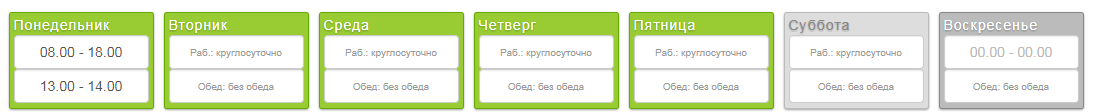
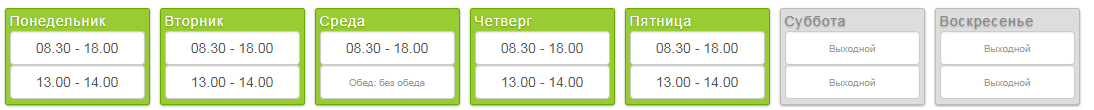
fix placeholders weekend title

diff --git a/assets/working-days.js b/assets/working-days.js
@@ -189,6 +189,23 @@ var MPWorkingDays = (function (app, $) {
             option.find('[data-autofill="1"]').attr('data-autofill', -1);
         }
 
+        // Change placeholder
+        if (status !== option.hasClass('active')) {
+            let placeholder = inputW.attr('placeholder');
+
+            inputW
+                .attr('placeholder', inputW.data('placeholder'))
+                .data('placeholder', placeholder);
+
+            if (enableDinner) {
+                let placeholder = inputD.attr('placeholder');
+
+                inputD
+                    .attr('placeholder', inputD.data('placeholder'))
+                    .data('placeholder', placeholder);
+            }
+        }
+
         // Re enable autofill
         if (AutoFill.state(widget).isEmpty() && !widget.find('.option.active').length) {
             AutoFill.state(widget).enable();

diff --git a/WorkingDays.php b/WorkingDays.php
@@ -90,8 +90,6 @@ class WorkingDays extends InputWidget
         $input = Html::beginTag('div', ['id' => $this->options['id'], 'class' => 'working-days']);
 
         foreach ($days as $dayAlias => $dayTitle) {
-            $val1         = !empty($this->value[$dayAlias]['work']) && $this->value[$dayAlias]['work'] !== $this->roundTheClock ? $this->value[$dayAlias]['work'] : NULL;
-            $val1Autofill = (!empty($this->autocompleteDays[$dayAlias]) || in_array(array_search($dayAlias, array_keys($days)) + 1, $this->autocompleteDays)) ? ($this->isEmptyTimeDays('dinner') ? 1 : -1) : 0;
             $day_status   = empty($this->value[$dayAlias]['work']) && empty($this->value[$dayAlias]['dinner']) ? 'inactive' : 'active';
 
             $input .= Html::beginTag('div', ['class' => 'option ' . $day_status]);
@@ -100,19 +98,10 @@ class WorkingDays extends InputWidget
             $input .= Html::tag('div', $dayTitle, ['class' => 'name', 'title' => Yii::t('app', 'Нажмите, чтобы активировать')]);
             $input .= Html::beginTag('div', ['class' => 'value']);
 
-            // Masked input
-            $input .= Html::textInput(NULL, $val1, ['class' => 'form-control time-work ' . ($val1 ? 'active' : 'inactive'), 'placeholder' => Yii::t('app', 'Раб.: круглосуточно'), 'data-autofill' => $val1Autofill]);
-            // Real input
-            $input .= Html::textInput($inputName . '[' . $dayAlias . '][work]', !empty($this->value[$dayAlias]['work']) ? $this->value[$dayAlias]['work'] : NULL, ['class' => 'hide realW']);
+            $input .= $this->getWorkingDayInput($inputName, $dayAlias);
 
             if ($this->enableDinner) {
-                $val2         = !empty($this->value[$dayAlias]['dinner']) && $this->value[$dayAlias]['dinner'] !== $this->roundTheClock ? $this->value[$dayAlias]['dinner'] : NULL;
-                $val2Autofill = (!empty($this->autocompleteDays[$dayAlias]) || in_array(array_search($dayAlias, array_keys($days)) + 1, $this->autocompleteDays)) ? ($this->isEmptyTimeDays('dinner') ? 1 : -1) : 0;
-
-                // Masked input
-                $input .= Html::textInput($inputName . '[' . $dayAlias . '][dinner]', $val2, ['class' => 'form-control time-dinner ' . ($val2 ? 'active' : 'inactive'), 'placeholder' => Yii::t('app', 'Обед: без обеда'), 'data-autofill' => $val2Autofill]);
-                // Real input
-                $input .= Html::textInput($inputName . '[' . $dayAlias . '][dinner]', !empty($this->value[$dayAlias]['dinner']) ? $this->value[$dayAlias]['dinner'] : NULL, ['class' => 'hide realD']);
+                $input .= $this->getDinnerDayInput($inputName, $dayAlias);
             }
 
             $input .= Html::endTag('div');
@@ -161,6 +150,68 @@ class WorkingDays extends InputWidget
         }
 
         return true;
+    }
+
+    /**
+     * Get working day input
+     *
+     * @param $inputName
+     * @param $dayAlias
+     *
+     * @return NULL|string
+     */
+    private function getWorkingDayInput($inputName, $dayAlias)
+    {
+        $days         = $this->getDays();
+        $day_status   = empty($this->value[$dayAlias]['work']) && empty($this->value[$dayAlias]['dinner']) ? 'inactive' : 'active';
+        $val1         = !empty($this->value[$dayAlias]['work']) && $this->value[$dayAlias]['work'] !== $this->roundTheClock ? $this->value[$dayAlias]['work'] : NULL;
+        $val1Autofill = (!empty($this->autocompleteDays[$dayAlias]) || in_array(array_search($dayAlias, array_keys($days)) + 1, $this->autocompleteDays)) ? ($this->isEmptyTimeDays('dinner') ? 1 : -1) : 0;
+
+        $input = NULL;
+
+        // Masked input
+        $input .= Html::textInput(NULL, $val1, [
+            'class'            => 'form-control time-work ' . ($val1 ? 'active' : 'inactive'),
+            'data-placeholder' => $day_status !== 'active' ? Yii::t('app', 'Раб.: круглосуточно') : Yii::t('app', 'Выходной'),
+            'placeholder'      => $day_status === 'active' ? Yii::t('app', 'Раб.: круглосуточно') : Yii::t('app', 'Выходной'),
+            'data-autofill'    => $val1Autofill,
+        ]);
+
+        // Real input
+        $input .= Html::textInput($inputName . '[' . $dayAlias . '][work]', !empty($this->value[$dayAlias]['work']) ? $this->value[$dayAlias]['work'] : NULL, ['class' => 'hide realW']);
+
+        return $input;
+    }
+
+    /**
+     * Get dinner day input
+     *
+     * @param $inputName
+     * @param $dayAlias
+     *
+     * @return NULL|string
+     */
+    private function getDinnerDayInput($inputName, $dayAlias)
+    {
+        $days         = $this->getDays();
+        $day_status   = empty($this->value[$dayAlias]['work']) && empty($this->value[$dayAlias]['dinner']) ? 'inactive' : 'active';
+        $val2         = !empty($this->value[$dayAlias]['dinner']) && $this->value[$dayAlias]['dinner'] !== $this->roundTheClock ? $this->value[$dayAlias]['dinner'] : NULL;
+        $val2Autofill = (!empty($this->autocompleteDays[$dayAlias]) || in_array(array_search($dayAlias, array_keys($days)) + 1, $this->autocompleteDays)) ? ($this->isEmptyTimeDays('dinner') ? 1 : -1) : 0;
+
+        $input = NULL;
+
+        // Masked input
+        $input .= Html::textInput($inputName . '[' . $dayAlias . '][dinner]', $val2, [
+            'class'            => 'form-control time-dinner ' . ($val2 ? 'active' : 'inactive'),
+            'data-placeholder' => $day_status !== 'active' ? Yii::t('app', 'Обед: без обеда') : Yii::t('app', 'Выходной'),
+            'placeholder'      => $day_status === 'active' ? Yii::t('app', 'Обед: без обеда') : Yii::t('app', 'Выходной'),
+            'data-autofill'    => $val2Autofill,
+        ]);
+
+        // Real input
+        $input .= Html::textInput($inputName . '[' . $dayAlias . '][dinner]', !empty($this->value[$dayAlias]['dinner']) ? $this->value[$dayAlias]['dinner'] : NULL, ['class' => 'hide realD']);
+
+        return $input;
     }
 
     /**

diff --git a/README.md b/README.md
@@ -33,6 +33,20 @@ Once the extension is installed, simply use it in your code by:
 <?= \MP\WorkingDatetime\WorkingDays::widget(['name' => 'example']); ?>
 ```
 
+**Options:**
+```php
+WorkingDays::widget([
+    'name' => 'example',
+    
+    'roundTheClock' => '00.00 - 00.00', // Default - 00.00 - 00.00. Round-The-Clock value
+    'enableDinner' => true,             // Default - true. Enable/disable dinner input
+    
+    'autocompleteDays' => [],           // Default - []. Automatic filling of time for the specified days
+                                        // Example: [1,2,5] or ['monday', 'friday']
+                                        // Warning: FILLS TIME FROM THE FILLED DAY
+])
+```
+
 If you dynamic add widget to page, run (js):
 ```js
 MPWorkingDays.reInit(); // Set default settings only for NEW widgets
@@ -46,16 +60,7 @@ or
 MPWorkingDays.reInit({newId: {settings...}}); // Set new widget settings
 ```
 
-**Options:**
-```php
-WorkingDays::widget([
-    'name' => 'example',
-    
-    'roundTheClock' => '00.00 - 00.00', // Default - 00.00 - 00.00. Round-The-Clock value
-    'enableDinner' => true,             // Default - true. Enable/disable dinner input
-    
-    'autocompleteDays' => [],           // Default - []. Automatic filling of time for the specified days
-                                        // Example: [1,2,5] or ['monday', 'friday']
-                                        // Warning: FILLS TIME FROM THE FILLED DAY
-])
+Set dynamicaly widget settings:
+```js
+MPWorkingDays.addInputSettings(widgetID, {settings...});
 ```
